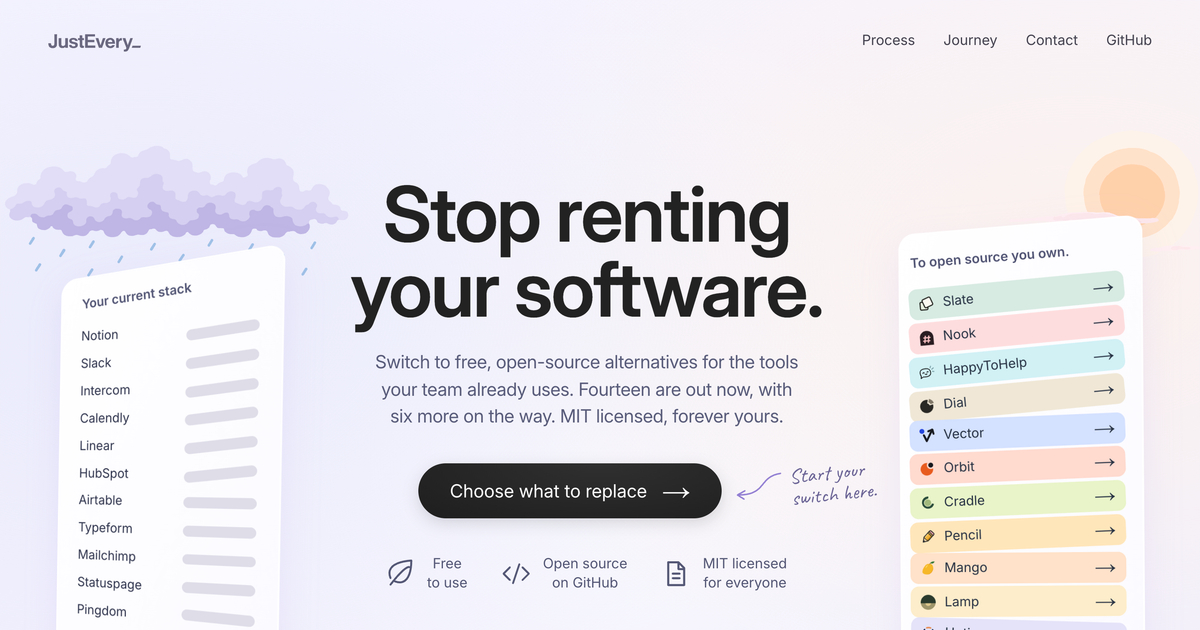
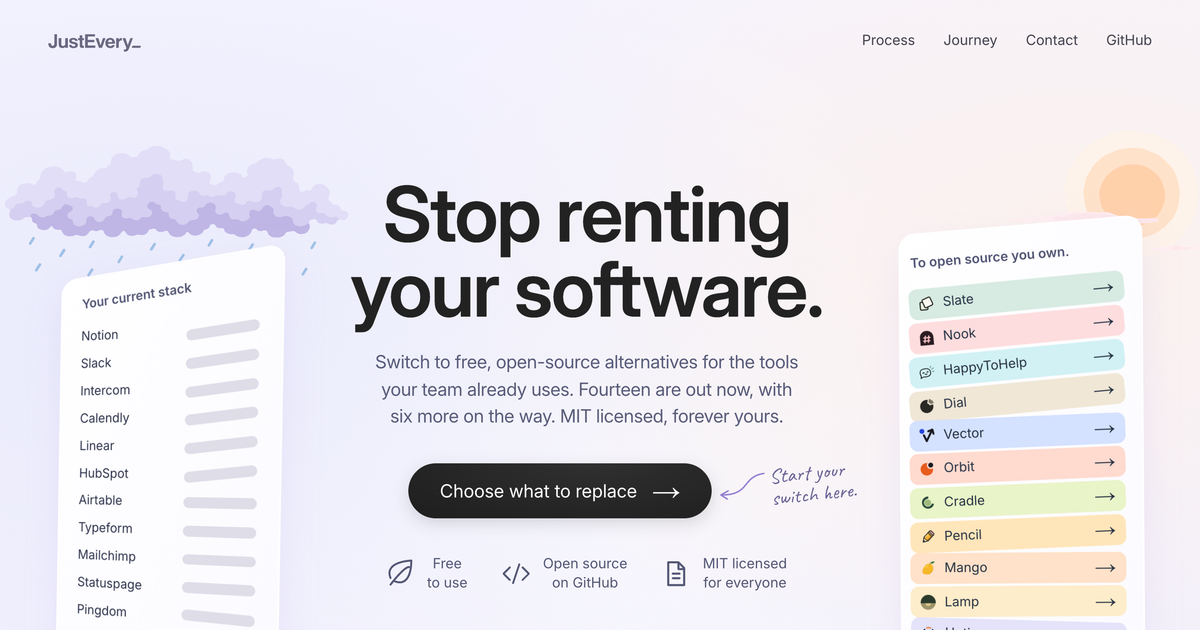
fix(hero): serve the layout options on Workers and tidy their weather
/hero-preview/1 to 4 rendered only under next start: with dynamicParams
off and no incremental cache on the Worker, each answered 404. The route
now renders on request and still sends any other layout to not-found.

Option 1's cloud is narrowed and kept over the rented card, so no drop
lands on the seeds. G's backing sheet shows only behind the stacked
lists; beside the copy it read as a stray box. The leftover rays sketch
is gone. Option 3 draws a long switch arrow from one card to the other
under the copy and pulls "Start your switch here." in toward the button.
The stacked layout's two closing notes no longer touch. The OG image is
re-rendered.

Changed region(s): [[0.3392, 0.7238, 0.555, 0.8444], [0.5858, 0.7238, 0.74, 0.8143]]

diff --git a/src/components/landing/hero/hero.module.css b/src/components/landing/hero/hero.module.css
@@ -151,6 +151,17 @@
   position: relative;
 }
 
+/* Layout 3's switch arrow, drawn long enough to span the copy between the
+   cards; every other arrangement uses the short one. */
+.longArrow {
+  display: none;
+  fill: none;
+  stroke: #9b86df;
+  stroke-width: 3;
+  stroke-linecap: round;
+  stroke-linejoin: round;
+}
+
 .side {
   position: relative;
 }
@@ -176,8 +187,7 @@
 .different,
 .fromArrow,
 .sixArrow,
-.upArrow,
-.rays {
+.upArrow {
   position: relative;
   z-index: 2;
 }
@@ -445,13 +455,10 @@
     margin-top: calc(var(--u) * 52);
   }
 
+  /* The backing sheet belongs to the stacked lists; beside the copy it
+     would read as a stray box between the cards. */
   .wash {
-    top: calc(var(--u) * 380);
-    right: calc(var(--u) * -18);
-    bottom: calc(var(--u) * 90);
-    left: calc(var(--u) * -18);
-    border-radius: calc(var(--u) * 42);
-    transform: rotate(1deg);
+    display: none;
   }
 
   .switchArrow {
@@ -639,16 +646,6 @@
     height: calc(var(--u) * 42);
   }
 
-  .rays {
-    position: absolute;
-    bottom: calc(var(--u) * -6);
-    left: calc(var(--u) * -40);
-    width: calc(var(--u) * 44);
-    height: calc(var(--u) * 52);
-    stroke-width: 3;
-    transform: rotate(175deg);
-  }
-
   .upArrow {
     position: absolute;
     top: calc(100% + var(--u) * 6);
@@ -711,8 +708,12 @@
     margin-right: calc(var(--u) * 12);
   }
 
+  /* The cloud stays over the rented card: between the headline and the
+     switch arrow, so no drop falls on the seeds. */
   .layout1 .rain {
-    left: calc(var(--u) * -90);
+    top: calc(var(--u) * -112);
+    left: calc(var(--u) * -40);
+    width: calc(var(--u) * 315);
   }
 
   .layout1 .closing {
@@ -810,10 +811,6 @@
     display: contents;
   }
 
-  .layout3 .wash {
-    display: none;
-  }
-
   .layout3 .rainy {
     grid-area: rainy;
     align-self: start;
@@ -841,16 +838,30 @@
   }
 
   .layout3 .actionRow {
-    margin-right: calc(var(--u) * 40);
+    margin-right: calc(var(--u) * 64);
   }
 
+  .layout3 .startArrow {
+    transform: translate(calc(var(--u) * 8), -60%);
+  }
+
+  .layout3 .start {
+    left: calc(100% + var(--u) * 70);
+  }
+
+  /* A long stroke from the rented card across to the seeds' card. */
   .layout3 .switchArrow {
+    display: none;
+  }
+
+  .layout3 .longArrow {
+    display: block;
     grid-area: arrow;
     align-self: start;
     justify-self: center;
-    width: calc(var(--u) * 90);
-    height: calc(var(--u) * 66);
-    margin-top: calc(var(--u) * 50);
+    width: calc(100% + var(--u) * 50);
+    height: auto;
+    margin-top: calc(var(--u) * 46);
   }
 
   .layout3 .rain {
@@ -882,9 +893,7 @@
   }
 
   .layout1 .sixArrow,
-  .layout1 .rays,
-  .layout3 .sixArrow,
-  .layout3 .rays {
+  .layout3 .sixArrow {
     display: none;
   }
 
@@ -958,10 +967,6 @@
     width: calc(var(--u) * 110);
     height: calc(var(--u) * 81);
     margin: 0 calc(var(--u) * 80);
-  }
-
-  .layout4 .wash {
-    display: none;
   }
 
   .layout4 .rain {
@@ -1088,7 +1093,6 @@
 
   .fromArrow,
   .sixArrow,
-  .rays,
   .upArrow {
     display: none;
   }
@@ -1193,7 +1197,7 @@
   }
 
   .closing {
-    margin: 8px 20px 0;
+    margin: 28px 20px 0;
     font-size: 25px;
     text-align: center;
     transform: rotate(-1.5deg);

diff --git a/src/components/landing/hero/sketches.tsx b/src/components/landing/hero/sketches.tsx
@@ -1,7 +1,7 @@
 /**
  * The hand-drawn strokes of design G, as drawn in the 12ui conversion:
- * the arrows that tie the notes to the lists, the rays beside the list you
- * own, and the trust row's three line icons. All are decoration.
+ * the arrows that tie the notes to the lists and the trust row's three line
+ * icons. All are decoration.
  */
 
 type Props = { className?: string };
@@ -30,6 +30,12 @@ export const SwitchArrow = ({ className }: Props) => (
   </svg>
 );
 
+export const LongSwitchArrow = ({ className }: Props) => (
+  <svg className={className} viewBox="0 0 600 64" aria-hidden="true">
+    <path d="M6 15C80 36 170 54 300 53s210-12 288-31m-17-5 17 5-13 12" />
+  </svg>
+);
+
 export const SixArrow = ({ className }: Props) => (
   <svg className={className} viewBox="0 0 53 42" aria-hidden="true">
     <path d="M47 3Q39 30 5 29m8-5-9 5 8 5" />
@@ -39,12 +45,6 @@ export const SixArrow = ({ className }: Props) => (
 export const UpArrow = ({ className }: Props) => (
   <svg className={className} viewBox="0 0 47 56" aria-hidden="true">
     <path d="M38 50Q6 44 8 5m-5 8 5-9 5 9" />
-  </svg>
-);
-
-export const Rays = ({ className }: Props) => (
-  <svg className={className} viewBox="0 0 44 52" aria-hidden="true">
-    <path d="m4 24 4-20m6 26L26 7M18 38l21-14" />
   </svg>
 );
 

diff --git a/src/app/hero-preview/[layout]/page.tsx b/src/app/hero-preview/[layout]/page.tsx
@@ -2,24 +2,19 @@ import type { Metadata } from 'next';
 import { notFound } from 'next/navigation';
 
 import { LandingPage } from '@/components/landing/LandingPage';
-import { HERO_LAYOUTS, isHeroLayout } from '@/components/landing/hero/layouts';
-
-/**
- * Temporary: the home page with one of the hero's layout options, for the
- * owner to compare at /hero-preview/1 to /hero-preview/4. Remove this route
- * once he picks one.
- */
-export const dynamicParams = false;
+import { isHeroLayout } from '@/components/landing/hero/layouts';
 
 export const metadata: Metadata = {
   title: 'Hero preview',
   robots: { index: false, follow: false },
 };
 
-export function generateStaticParams() {
-  return HERO_LAYOUTS.map(layout => ({ layout: String(layout) }));
-}
-
+/**
+ * Temporary: the home page with one of the hero's layout options, for the
+ * owner to compare at /hero-preview/1 to /hero-preview/4. Remove this route
+ * once he picks one. It renders on request: the Worker build keeps no
+ * incremental cache, so a prerendered-only route would answer 404 there.
+ */
 export default async function HeroPreview({
   params,
 }: {

diff --git a/src/components/landing/hero/Hero.tsx b/src/components/landing/hero/Hero.tsx
@@ -18,7 +18,7 @@ import {
   DocIcon,
   FromArrow,
   LeafIcon,
-  Rays,
+  LongSwitchArrow,
   SixArrow,
   StartArrow,
   SwitchArrow,
@@ -250,6 +250,7 @@ export function Hero({
           </div>
 
           <SwitchArrow className={styles.switchArrow} />
+          <LongSwitchArrow className={styles.longArrow} />
 
           <div className={`${styles.side} ${styles.sunny}`}>
             {/* eslint-disable-next-line @next/next/no-img-element */}
@@ -314,7 +315,6 @@ export function Hero({
               Plus {coming} more coming soon.
             </p>
             <SixArrow className={`${styles.lineArt} ${styles.sixArrow}`} />
-            <Rays className={`${styles.lineArt} ${styles.rays}`} />
             <UpArrow className={`${styles.lineArt} ${styles.upArrow}`} />
             <p
               className={`${caveat.className} ${styles.hand} ${styles.different}`}

diff --git a/src/components/landing/hero/layouts.ts b/src/components/landing/hero/layouts.ts
@@ -6,7 +6,8 @@
  *
  * 1. Text left, cards right, with a capped column so they never meet.
  * 2. Text centred above, the two cards side by side under it.
- * 3. The cards flank a centred text column: rain card left, sun card right.
+ * 3. The cards flank a centred text column: rain card left, sun card right,
+ *    with a long switch arrow under the copy from one card to the other.
  * 4. A split heading row (headline left, subhead and button right), the
  *    cards spread wide below with the switch arrow between them.
  */
